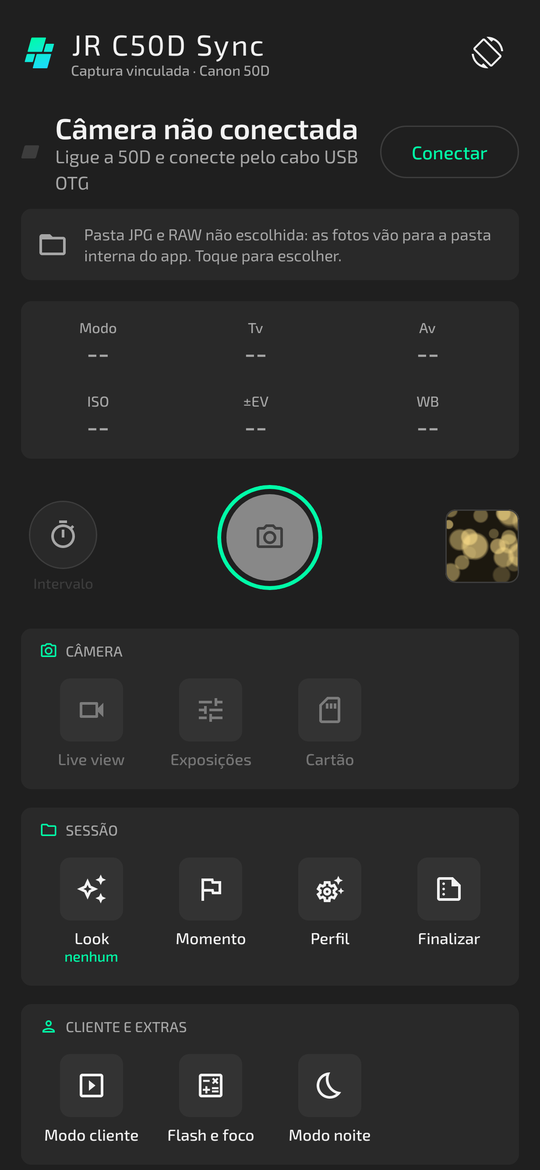
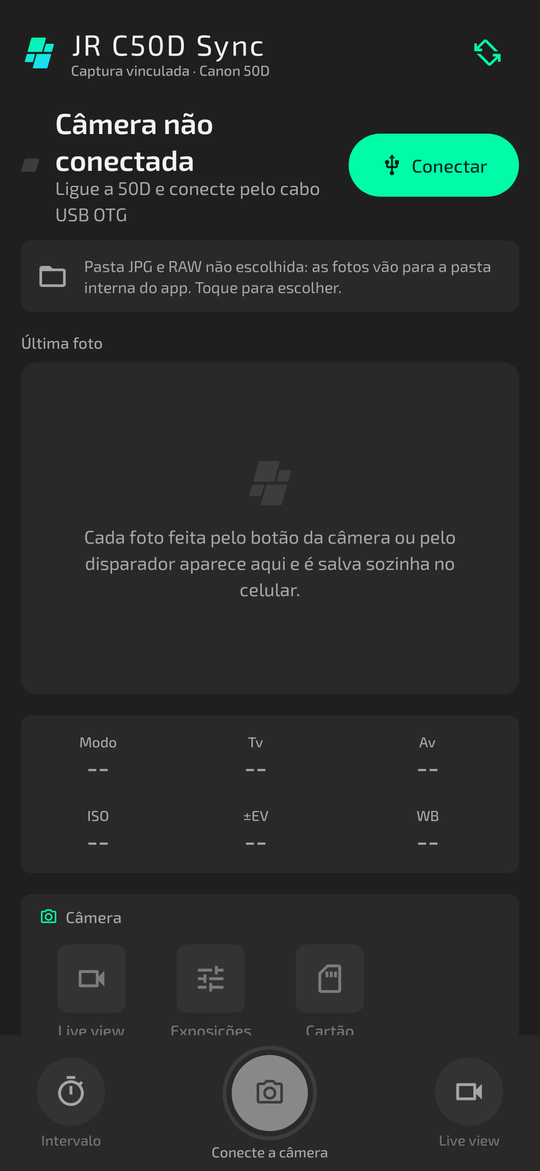
Versão 4.7: novidades, README com as telas novas e busca de Ajustes mais curta
Claude-Session: https://claude.ai/code/session_01Fja5UiF2ijigUXLGfTXwtQ

diff --git a/app/src/test/java/com/example/ui/ScreenshotTest.kt b/app/src/test/java/com/example/ui/ScreenshotTest.kt
@@ -27,6 +27,7 @@ import org.robolectric.RobolectricTestRunner
 import org.robolectric.annotation.Config
 import org.robolectric.annotation.GraphicsMode
 import java.io.File
+import androidx.compose.ui.test.performTextInput
 
 /**
  * Renders the main screens to PNG (app/build/screens) so the layout can be reviewed without a phone.
@@ -132,6 +133,14 @@ class ScreenshotTest {
     fun settings() {
         rule.setContent { JrLinkTheme { SettingsScreen(onOpen = {}) } }
         save("ajustes")
+    }
+
+    @Test
+    fun settingsSearch() {
+        rule.setContent { JrLinkTheme { SettingsScreen(onOpen = {}) } }
+        rule.onNode(androidx.compose.ui.test.hasSetTextAction()).performTextInput("foto")
+        rule.mainClock.advanceTimeBy(500)
+        save("ajustes_busca")
     }
 
     @Test

diff --git a/app/src/main/java/com/example/ui/settings/SettingsScreen.kt b/app/src/main/java/com/example/ui/settings/SettingsScreen.kt
@@ -243,7 +243,8 @@ fun SettingsScreen(onOpen: (SettingsSection) -> Unit) {
             }
             Spacer(Modifier.height(8.dp))
             found.forEach { (section, rows) ->
-                SectionRow(section, if (rows.isEmpty()) section.summary else rows.joinToString(" · ")) { onOpen(section) }
+                val shownRows = rows.take(3).joinToString(" · ") + if (rows.size > 3) " · +${rows.size - 3}" else ""
+                SectionRow(section, if (rows.isEmpty()) section.summary else shownRows) { onOpen(section) }
             }
             Spacer(Modifier.height(40.dp))
             return@SettingsPage

diff --git a/README.md b/README.md
@@ -26,7 +26,7 @@ A captura usa só a USB, sem FTP e sem internet. Na hora de entregar, o celular 
 
 <table>
   <tr>
-    <td align="center"><img src="docs/images/tela-sessao.png" width="200" alt="Tela Sessão"><br><sub><b>Sessão</b><br>última foto, exposição, disparador</sub></td>
+    <td align="center"><img src="docs/images/tela-sessao.png" width="200" alt="Tela Sessão"><br><sub><b>Sessão</b><br>última foto e disparador embaixo</sub></td>
     <td align="center"><img src="docs/images/tela-fotos.png" width="200" alt="Galeria"><br><sub><b>Fotos</b><br>RAW/JPG, favoritas, estrelas</sub></td>
     <td align="center"><img src="docs/images/tela-visualizador.png" width="200" alt="Visualizador"><br><sub><b>Visualizador</b><br>zoom, histograma, Lightroom</sub></td>
     <td align="center"><img src="docs/images/tela-marca-dagua.png" width="200" alt="Marca d'água"><br><sub><b>Envio</b><br>JPG leve e marca d'água</sub></td>
@@ -46,7 +46,7 @@ A captura usa só a USB, sem FTP e sem internet. Na hora de entregar, o celular 
   <tr>
     <td align="center"><img src="docs/images/tela-live-view.png" width="200" alt="Live view"><br><sub><b>Live view</b><br>monitor com preset ao vivo</sub></td>
     <td align="center"><img src="docs/images/tela-recorte.png" width="200" alt="Recorte"><br><sub><b>Recorte</b><br>Instagram, Stories, impressão</sub></td>
-    <td align="center"><img src="docs/images/tela-botao-captura.png" width="200" alt="Iniciar captura"><br><sub><b>Iniciar captura</b><br>em qualquer aba</sub></td>
+    <td align="center"><img src="docs/images/tela-sessao-deitada.png" width="200" alt="Sessão com o celular deitado"><br><sub><b>Deitado</b><br>foto, controles e disparador lado a lado</sub></td>
     <td align="center"><img src="docs/images/tela-perfis.png" width="200" alt="Perfis e backup"><br><sub><b>Perfis</b><br>ajustes prontos por evento</sub></td>
   </tr>
   <tr>
@@ -63,7 +63,7 @@ A captura usa só a USB, sem FTP e sem internet. Na hora de entregar, o celular 
 
 | | |
 |---|---|
-| **Captura vinculada** | Fotos feitas pelo botão da câmera ou pelo disparador do app chegam sozinhas no celular. A câmera nunca fica travada. Botão **Iniciar captura** em todas as abas. |
+| **Captura vinculada** | Fotos feitas pelo botão da câmera ou pelo disparador do app chegam sozinhas no celular. A câmera nunca fica travada. Na Sessão, o disparador fica numa barra fixa embaixo (em pé) ou num trilho à direita (deitado). |
 | **Live view** | A imagem da 50D no celular como monitor externo: preset em tempo real (igual perfil de cor), guias de enquadramento (terços, 4:5, 9:16), zebra, focus peaking, histograma, toque para focar, zoom 5×/10×, foco fino, prévia de profundidade, exposição e disparo. |
 | **Recorte** | Recorte no estilo Lightroom: proporções prontas para Instagram, Stories/Reels/Status, Facebook, YouTube e impressão (10×15 a A4), livre, endireitar (manual, Auto e traçando o horizonte), girar e espelhar. Recorte rápido em lote. |
 | **Auto-save** | Só JPG, só RAW ou RAW + JPG. Pasta própria para cada formato (inclusive cartão SD), subpasta por sessão, renomeação com o nome do cliente. |
@@ -73,7 +73,7 @@ A captura usa só a USB, sem FTP e sem internet. Na hora de entregar, o celular 
 | **Loja de presets** | Aba com os presets grátis da sua API: prévia de cada DNG, antes e depois segurando o dedo, seleção de vários, abrir no Lightroom, prévia na sua foto, **Usar** numa foto da galeria ou no editor, **Salvar** em Meus presets (funciona offline em todo o app) e **Baixar** o DNG e o XMP para a pasta `JR_LR_Presets`. |
 | **Cartão** | Navegar pelas fotos que já estão no CF e baixar só as escolhidas. Reenvio automático do que foi feito com o cabo solto. |
 | **Envio** | Lightroom com um toque, "JPG leve" com marca d'água Jr_Tech_OFC e **WhatsApp direto para o número do cliente**: digita o número e a conversa abre com a foto pronta (preset, recorte e marca d'água) já anexada. |
-| **Cliente** | Modo cliente em tela cheia com zoom (pinça e duplo toque), PIN para sair e resumo ao fim da sessão. O cliente pode receber a foto no WhatsApp dele. O cliente escolhe o preset da foto; o botão Calibrar (com PIN) abre os ajustes daquela foto. |
+| **Cliente** | Modo cliente em tela cheia com zoom (pinça e duplo toque), PIN para sair, **Fixar a tela** (os botões do Android não tiram o cliente do app) e resumo ao fim da sessão. O cliente pode receber a foto no WhatsApp dele. O cliente escolhe o preset da foto; o botão Calibrar (com PIN) abre os ajustes daquela foto. |
 | **Entrega local** | O celular cria o Wi-Fi e um portal com as fotos de cada cliente. O cliente entra pelo QR, digita o código dele e salva no próprio celular. Modo manual ou automático (cada foto nova vai para o cliente da vez), fila com estado de cada foto, favoritas pelo portal, placa para imprimir. Sem internet. |
 | **Seleção do cliente** | O cliente marca as fotos no modo cliente; a lista vai para o filtro do Lightroom ou para a pasta Escolhidas. Galeria em lote e mensagens prontas no WhatsApp. |
 | **Evento** | Momentos (Cerimônia, Festa…) com subpasta, notas de texto e voz por foto, backup da sessão para cartão SD ou pendrive. |
@@ -81,7 +81,9 @@ A captura usa só a USB, sem FTP e sem internet. Na hora de entregar, o celular 
 | **Ferramentas** | Calculadora de flash Yongnuo e de profundidade de campo, GPS nas cópias e acerto do relógio da câmera. Tudo offline. |
 | **Campo** | Vibração a cada foto, alerta se o cabo soltar, aviso de cartão e memória cheios, modo escuro total para igreja e evento noturno. |
 
-Cada função tem um liga/desliga em **Ajustes**.
+Cada função tem um liga/desliga em **Ajustes**, com busca no topo: digite "pix" ou "marca" e veja em que página está.
+
+Apagou uma foto sem querer? A mensagem embaixo oferece **Desfazer** por alguns segundos, antes de os arquivos saírem do celular.
 
 ## Instalar
 
@@ -93,7 +95,7 @@ Cada função tem um liga/desliga em **Ajustes**.
 
 1. Na câmera, deixe **Desligamento automático** em **Desativado** (menu de configuração, ícone amarelo).
 2. Ligue a 50D e conecte o cabo **USB OTG** no celular.
-3. O Android pergunta se deve abrir o **JR C50D Sync**. Se o app já estiver aberto, toque em **Iniciar captura** (botão verde no canto). Marque **Usar por padrão** para ele abrir e liberar a USB sozinho das próximas vezes.
+3. O Android pergunta se deve abrir o **JR C50D Sync**. Se o app já estiver aberto, toque em **Conectar** na Sessão. Marque **Usar por padrão** para ele abrir e liberar a USB sozinho das próximas vezes.
 4. Na primeira vez, vá em **Ajustes → Salvamento** e escolha as pastas dos JPG e dos RAW.
 5. Fotografe.
 
@@ -240,10 +242,14 @@ Live view gasta mais bateria da câmera. Com a imagem só no celular, a tela da 
 ### Posição da tela
 
 - O botão de girar (Sessão, visualizador, modo cliente e live view) abre o dial de posição: toque em **Em pé**, **Direita**, **Invertido** ou **Esquerda**, ou arraste em volta do anel, e o celular desenhado no centro gira até lá. **Automático** segue o sensor do celular, mesmo com a rotação do Android travada. Nas posições fixas a tela não gira sozinha.
-- Escolher no dial vale até a próxima foto, mesmo no visualizador com **Girar com a foto** ligado.
+- A tela nunca gira por causa da foto: uma foto deitada não vira o app.
 
 <p><img src="docs/images/dial_posicao.png" width="250" alt="Dial de posição da tela"></p>
-- **Girar com a foto** (Ajustes → Tela): no visualizador e no modo cliente, foto em pé deixa a tela em pé e foto deitada deixa a tela deitada, sempre em tela cheia.
+
+- **Foto acompanha o celular** (Ajustes → Tela, ligado por padrão): com a tela numa posição fixa, no visualizador e no modo cliente, só a foto gira quando você vira o celular. Com o app em pé, deite o celular e a foto deitada ocupa a tela toda, enquanto os botões ficam onde estavam. No **Automático** não é preciso: a tela inteira já segue o celular.
+- Com o celular deitado, cada tela põe a foto à esquerda e os controles à direita, lado a lado, sem nada por cima da foto.
+
+<p><img src="docs/images/tela-visualizador-deitado.png" width="480" alt="Visualizador com o celular deitado"></p>
 - Se a 50D salvar fotos verticais deitadas, ligue na câmera **Menu → Girar automático: Ligado**, ou use **Girar** no visualizador.
 
 ### Abertura e animações
@@ -323,7 +329,7 @@ Para publicar uma versão nova: suba o `versionName` em `app/build.gradle.kts` e
 ```
 app/src/main/java/com/example/
 ├── TetherApp.kt                   cria as peças do app (câmera, banco, configurações)
-├── MainActivity.kt                navegação: Sessão, Fotos, Culling, Presets, Ajustes + botão Iniciar captura
+├── MainActivity.kt                navegação por abas (Ajustes sempre visível), avisos com Desfazer
 ├── core/
 │   ├── ptp/                       protocolo PTP da Canon: pacotes, sessão USB, eventos, valores
 │   ├── camera/CameraManager.kt    conexão com a 50D, eventos, disparo, ISO/Av/Tv, AEB, cartão

diff --git a/CHANGELOG.md b/CHANGELOG.md
@@ -2,6 +2,42 @@
 
 Versões do **JR C50D Sync** (até a 2.7, Jr_Link). A mais recente fica no topo.
 
+## [4.7] · 2026-11-07
+
+Terceira etapa da auditoria: a interface repensada para o trabalho, em pé e deitado.
+
+- **A tela não gira mais com a foto:**
+  - antes, ao passar de uma foto em pé para uma deitada, a tela inteira virava junto;
+  - agora a tela fica sempre na posição escolhida em Ajustes → Tela;
+  - quem gira é só a foto, conforme você vira o celular: com o app fixo em pé, uma foto deitada ocupa a tela toda ao deitar o aparelho, e os botões ficam onde estavam;
+  - o ajuste "Foto acompanha o celular" (Ajustes → Tela) liga e desliga isso. No modo Automático não é preciso: a tela já acompanha o celular.
+- **Sessão redesenhada:**
+  - em pé: estado da câmera em cima, a última foto logo abaixo e uma barra fixa embaixo com intervalo, disparador e live view, ao alcance do polegar;
+  - deitada: foto à esquerda, controles no meio e o trilho de captura à direita;
+  - o botão flutuante "Iniciar captura", que cobria a exposição, saiu: o disparador da barra faz o mesmo;
+  - as ferramentas se arrumam em 3 a 6 colunas conforme a largura, com ícones maiores.
+- **Abas:**
+  - Entrega e Express só ocupam lugar na barra quando estão ligadas (desligadas, continuam nas ferramentas da Sessão);
+  - Ajustes fica sempre visível: fixo à direita na barra de baixo e embaixo no trilho lateral.
+- **Telas deitadas, lado a lado e sem nada por cima da foto:**
+  - visualizador: o painel de informações fica ao lado, e não mais sobre a metade da foto;
+  - culling: a foto ocupa a altura toda e os filtros, estrelas e botões vão para uma coluna à direita;
+  - modo cliente: ações e presets na coluna da direita; a foto ganha a altura toda;
+  - calibrar (editor): ganhou layout deitado; antes a foto sumia;
+  - recorte e loja: painéis proporcionais à tela; na loja deitada, a busca fica ao lado do título.
+- **Apagar com Desfazer:** a foto apagada sai da tela na hora e a mensagem embaixo oferece **Desfazer** por alguns segundos. Os arquivos só são removidos depois disso.
+- **Busca em Ajustes:** digite "marca", "pix" ou "relógio" e veja em que página está cada opção.
+- **Modo cliente → Fixar a tela:** usa a fixação de tela do Android, e os botões do sistema não tiram o cliente do app. Ele só sai pelo Sair (com o PIN, se houver).
+- **Fotos:** quando os filtros não deixam nenhuma foto, a galeria avisa e oferece "Mostrar todas".
+- **Botões e leitura:**
+  - botões de foco, AF, profundidade, zoom e valores do live view com 48 dp, o tamanho de um dedo;
+  - estrelas maiores no visualizador;
+  - interruptores de Ajustes funcionam com o TalkBack (a linha inteira liga e desliga);
+  - favorita, comparar e estouro dizem o estado ao leitor de tela;
+  - no modo escuro total, os textos apagados e o vermelho de erro ficaram mais legíveis;
+  - recorte: sair com alterações pede confirmação.
+- **Avisos:** uma mensagem nova substitui a que está na tela, em vez de fazer fila.
+
 ## [4.6] · 2026-11-07
 
 Segunda etapa da auditoria: a captura não para.

diff --git a/release/README.md b/release/README.md
@@ -2,7 +2,7 @@
 
 | Arquivo | Versão | Android |
 |---|---|---|
-| [`JR_C50D_Sync-v4.6.apk`](JR_C50D_Sync-v4.6.apk) | 4.6 | 7.0 ou mais novo |
+| [`JR_C50D_Sync-v4.7.apk`](JR_C50D_Sync-v4.7.apk) | 4.7 | 7.0 ou mais novo |
 
 Para instalar: baixe o arquivo no celular, abra e permita **instalar apps desconhecidos**.
 Atualizações instalam por cima da versão anterior (inclusive do antigo Jr_Link) e mantêm fotos e ajustes.
